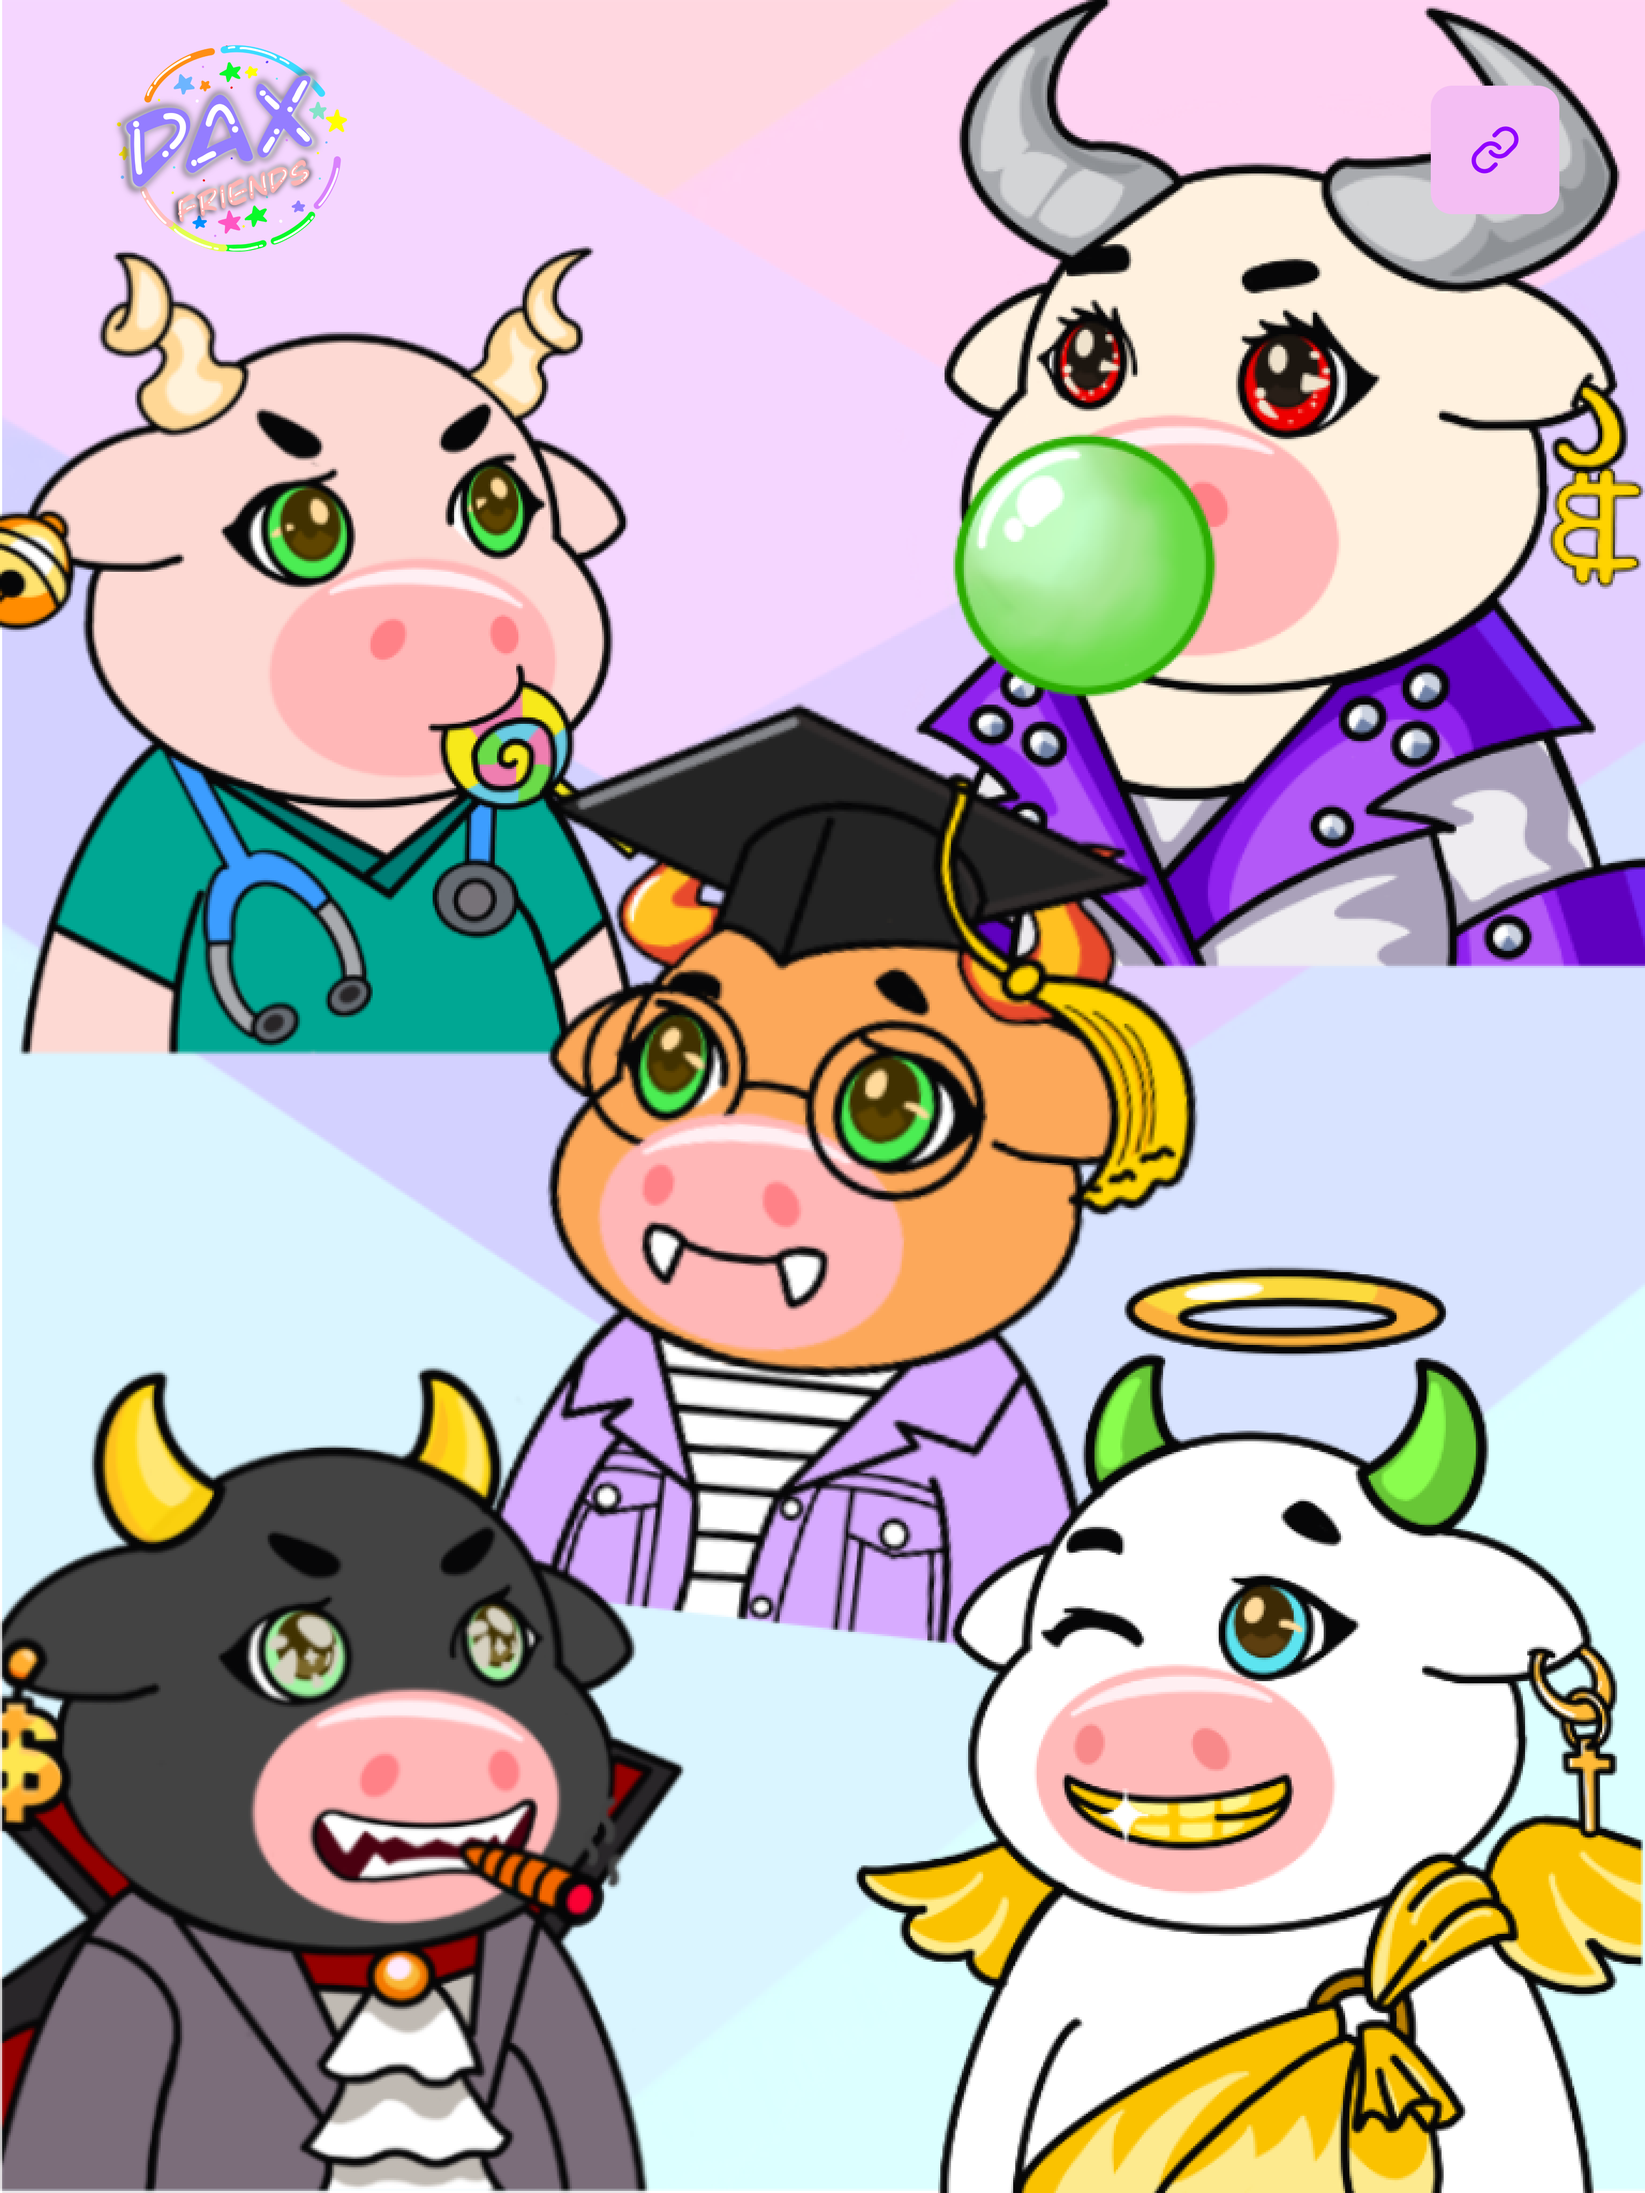
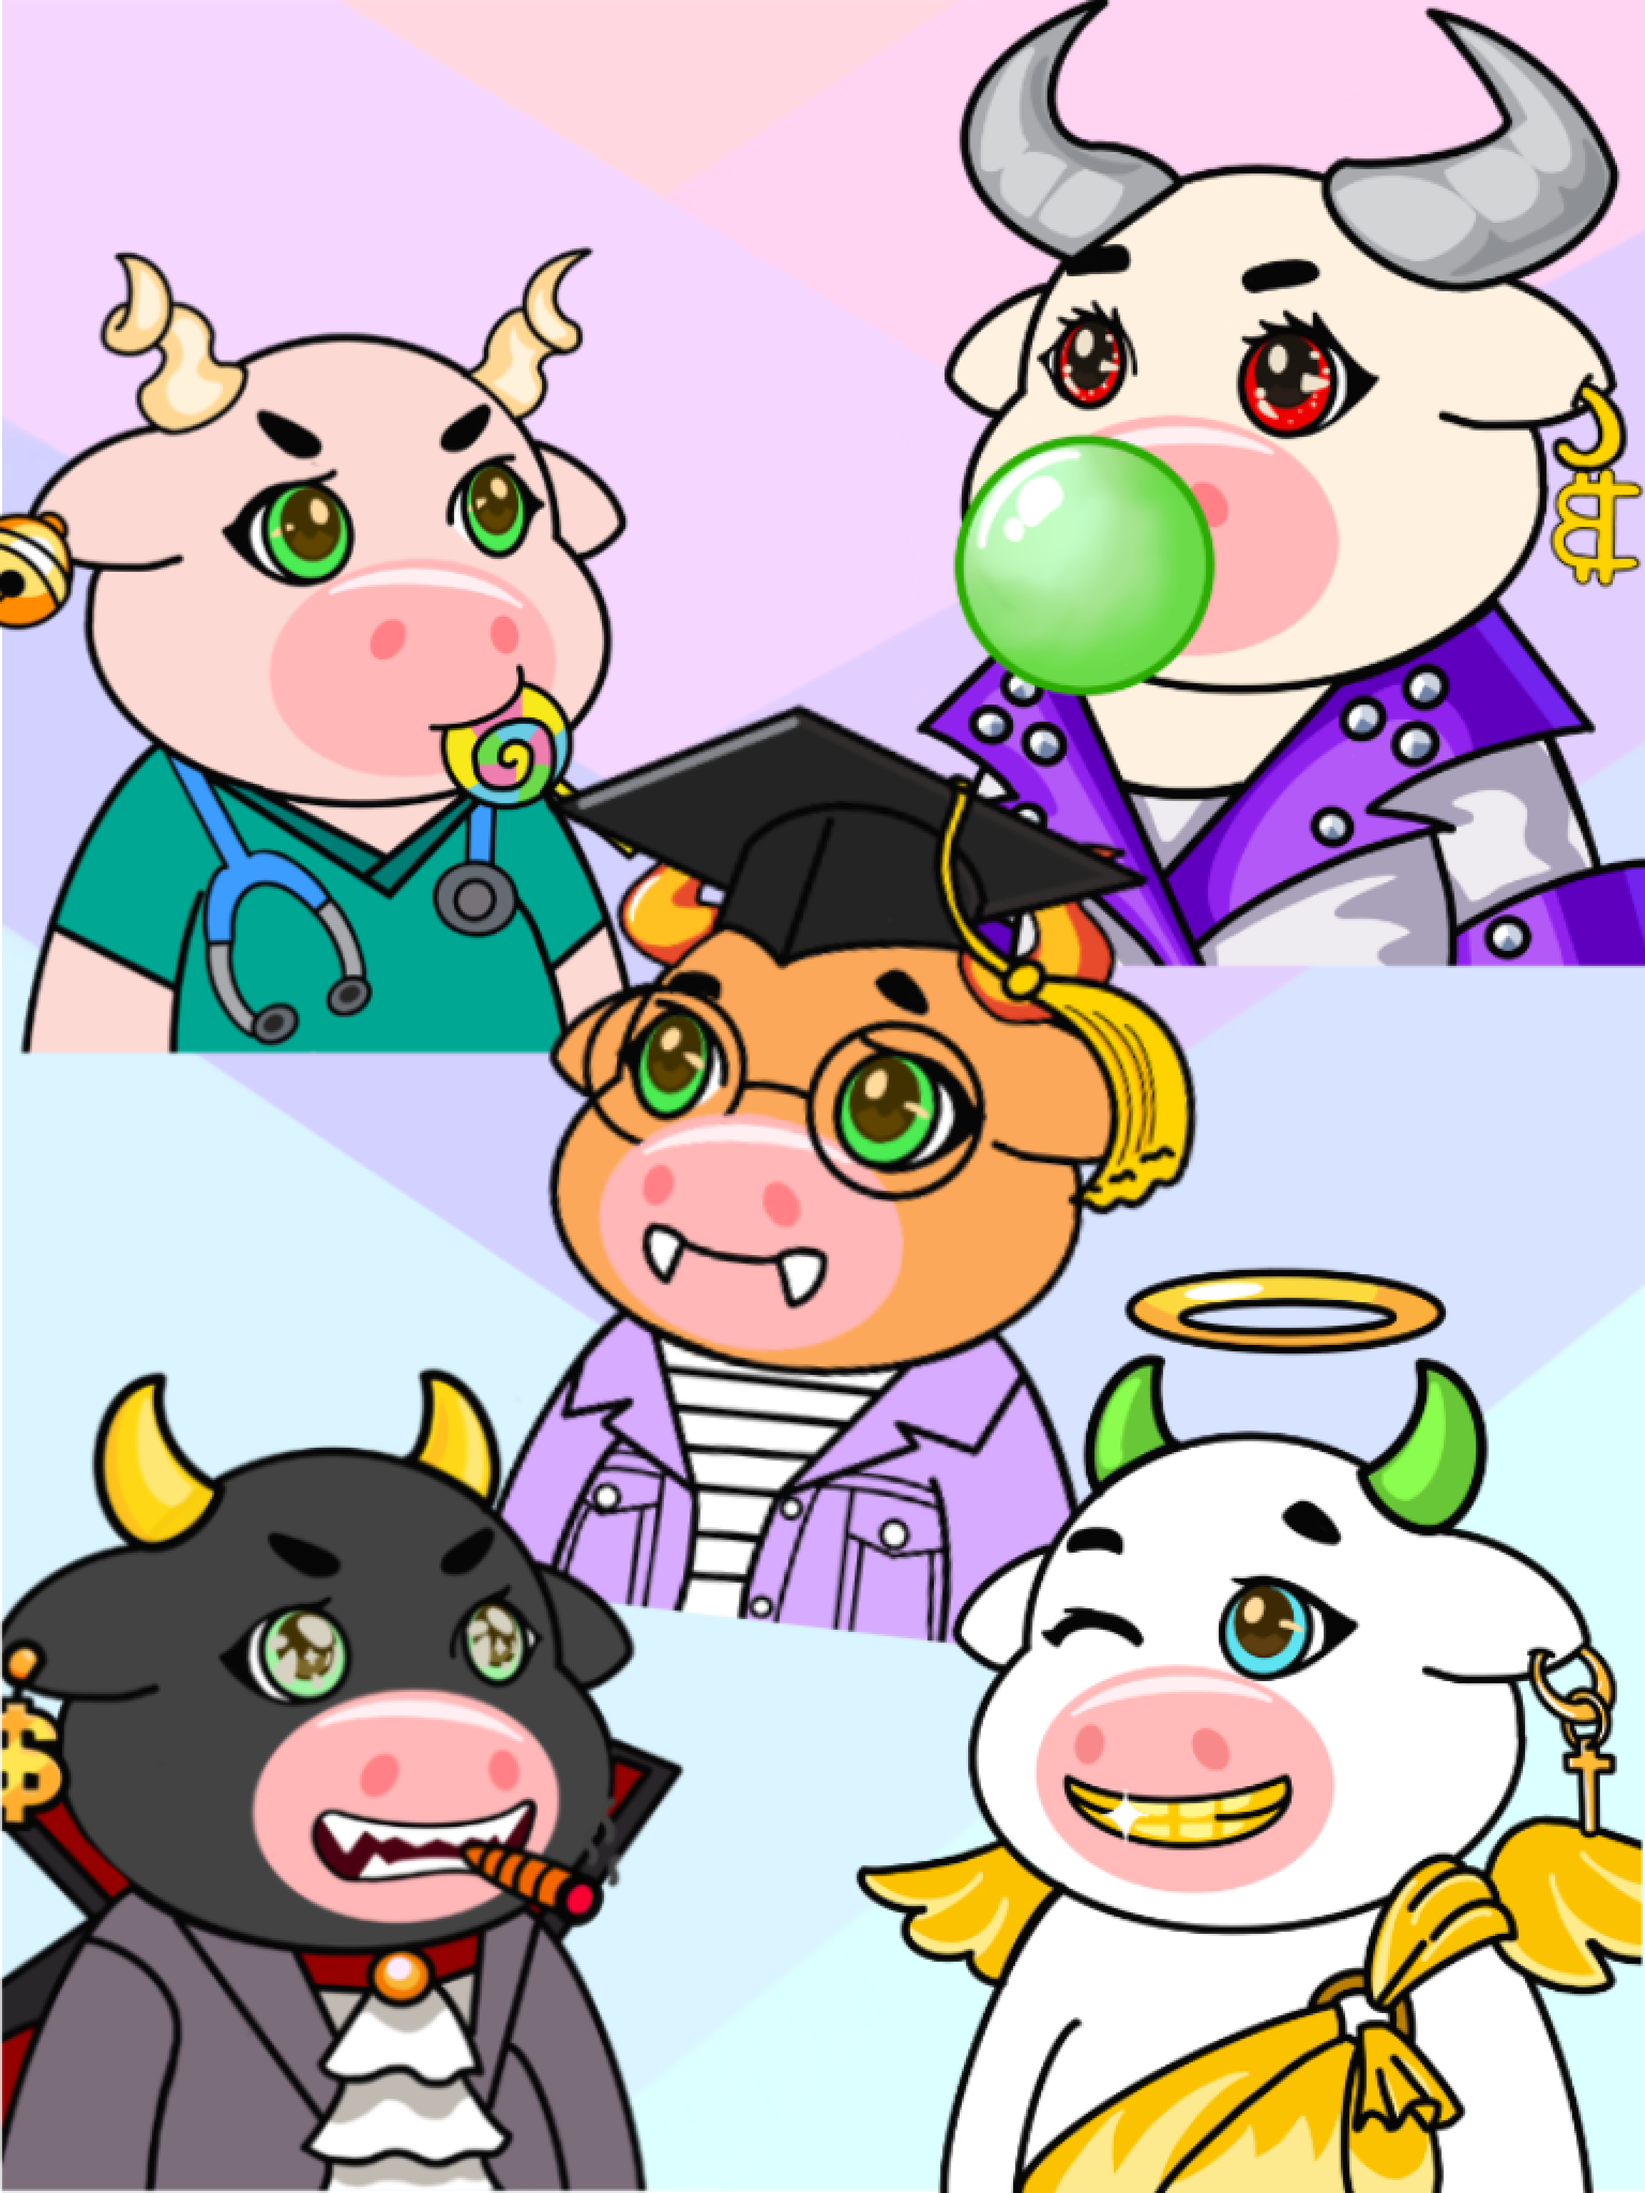
Update: 반응형 조정

Changed region(s): [[0.0625, 0.0, 0.2188, 0.125], [0.8438, 0.0312, 0.9688, 0.125]]

diff --git a/src/common/components/Appbar/Appbar.tsx b/src/common/components/Appbar/Appbar.tsx
@@ -1,12 +1,11 @@
-import { useCustomMediaQuery } from "@/common/theme/screen";
 import { css } from "@emotion/react";
-import { MobileAppbar, PcAppbar } from "./element";
+import { PcAppbar } from "./element";
 
 export const Appbar = () => {
-  const { isTablet } = useCustomMediaQuery();
   return (
     <header css={st.appbar}>
-      {isTablet ? <MobileAppbar /> : <PcAppbar />}
+      {/* {isTablet ? <MobileAppbar /> : <PcAppbar />} */}
+      <PcAppbar />
     </header>
   );
 };

diff --git a/src/common/components/Appbar/element/PcAppbar.tsx b/src/common/components/Appbar/element/PcAppbar.tsx
@@ -1,3 +1,4 @@
+import { MediaQueries } from "@/common/theme/screen";
 import { css } from "@emotion/react";
 import { Logo, MenuIcon } from "./components";
 
@@ -21,5 +22,19 @@ const st = {
     left: 0;
     z-index: 10;
     padding: 0 5.2vw;
+
+    @media ${MediaQueries.lg} {
+      align-items: center;
+      top: 0;
+      left: 0;
+    }
+
+    @media ${MediaQueries.sm} {
+      top: 5.55vw;
+    }
+
+    @media ${MediaQueries.xs} {
+      padding: 0 11.11vw;
+    }
   `,
 };

diff --git a/src/ui/home/sections/Faq/Faq.tsx b/src/ui/home/sections/Faq/Faq.tsx
@@ -35,9 +35,22 @@ const st = {
     padding: 0 5.2vw;
     padding-bottom: 4.62vh;
 
+    @media ${MediaQueries.lg} {
+      align-items: center;
+      flex-direction: column;
+      padding-top: 18vw;
+      gap: 8vw;
+    }
+
+    @media ${MediaQueries.sm} {
+      padding-top: 18vw;
+      gap: 0;
+    }
+
     @media ${MediaQueries.xs} {
       padding: 0;
-      padding-bottom: 5.55vw;
+      padding-top: 18vw;
+      //padding-bottom: 5.55vw;
     }
   `,
   blurWrapper: css`

diff --git a/src/ui/home/sections/Utility/Utility.tsx b/src/ui/home/sections/Utility/Utility.tsx
@@ -37,13 +37,13 @@ const st = {
       flex-direction: column;
       align-items: center;
       padding: 0 7.5vw;
-      padding-top: 23.4vw;
-      gap: 5.2vw;
+      padding-top: 19vw;
+      gap: 8vw;
     }
 
     @media ${MediaQueries.sm} {
       padding: 0 8.33vw;
-      padding-top: 25vw;
+      padding-top: 18vw;
       gap: 20.5vw;
     }
   `,

diff --git a/src/ui/home/sections/Gallery/Gallery.tsx b/src/ui/home/sections/Gallery/Gallery.tsx
@@ -40,12 +40,12 @@ const st = {
       display: flex;
       flex-direction: column;
       align-items: center;
-      padding-top: 23.4vw;
-      gap: 5.2vw;
+      padding-top: 19vw;
+      gap: 14vw;
     }
 
     @media ${MediaQueries.sm} {
-      padding-top: 25vw;
+      padding-top: 18vw;
       gap: 20.5vw;
     }
   `,

diff --git a/src/ui/home/sections/Partners/Parners.tsx b/src/ui/home/sections/Partners/Parners.tsx
@@ -34,12 +34,12 @@ const st = {
       display: flex;
       flex-direction: column;
       align-items: center;
-      padding-top: 23.4vw;
-      gap: 5.2vw;
+      padding-top: 19vw;
+      gap: 14vw;
     }
 
     @media ${MediaQueries.sm} {
-      padding-top: 25vw;
+      padding-top: 18vw;
       gap: 20.5vw;
     }
   `,

diff --git a/src/ui/home/sections/Team/Team.tsx b/src/ui/home/sections/Team/Team.tsx
@@ -69,12 +69,12 @@ const st = {
       display: flex;
       flex-direction: column;
       align-items: center;
-      padding-top: 23.4vw;
-      gap: 5.2vw;
+      padding-top: 19vw;
+      gap: 8vw;
     }
 
     @media ${MediaQueries.sm} {
-      padding-top: 25vw;
+      padding-top: 18vw;
       gap: 11.11vw;
     }
   `,

diff --git a/src/common/components/Appbar/element/components/Logo.tsx b/src/common/components/Appbar/element/components/Logo.tsx
@@ -20,7 +20,7 @@ const st = {
     @media ${MediaQueries.lg} {
       width: 18.22vw;
     }
-    @media ${MediaQueries.xs} {
+    @media ${MediaQueries.sm} {
       width: 22.22vw;
     }
   `,

diff --git a/src/common/components/Appbar/element/components/MenuIcon.tsx b/src/common/components/Appbar/element/components/MenuIcon.tsx
@@ -44,7 +44,7 @@ const st = {
     @media ${MediaQueries.lg} {
       width: 7.81vw;
     }
-    @media ${MediaQueries.xs} {
+    @media ${MediaQueries.sm} {
       width: 11.11vw;
     }
   `,
